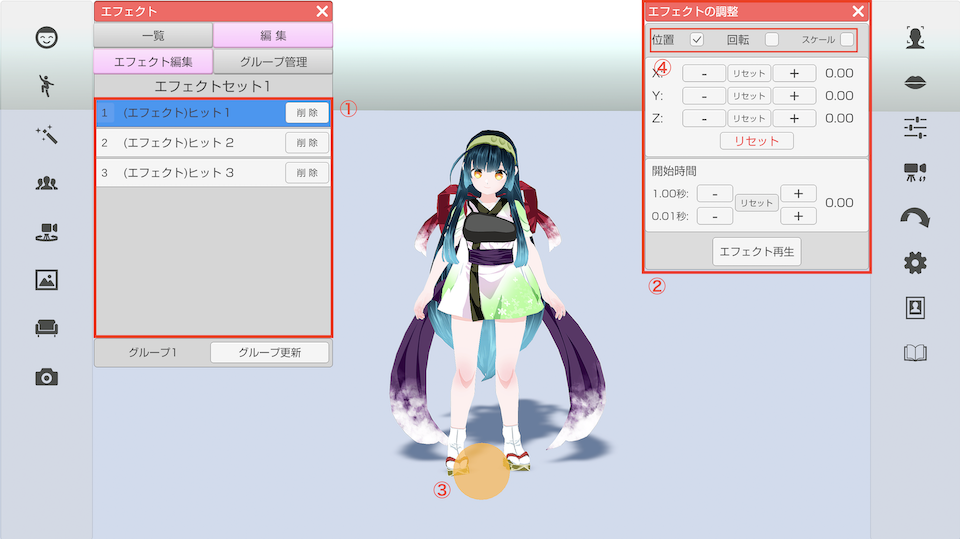
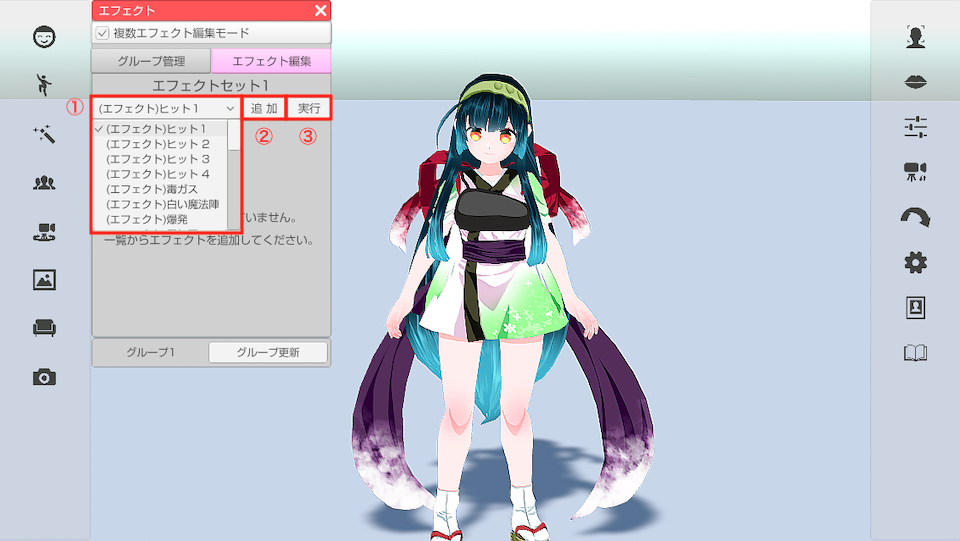
エフェクトウィンドウのドキュメント更新

diff --git a/effect.md b/effect.md
@@ -5,14 +5,14 @@
 
 ### エフェクトのウインドウを表示する
 
->左側メニューの３番目のエフェクトをクリックします。
+>左側メニューの３番目のエフェクトをクリックするとエフェクトウィンドウが表示されます。
 
 ![画像](image/ScreenEffect_1.png "")
 
 
 ### エフェクトを実行する
 
->上部タブ「一覧」内のリストから実行したいエフェクトを選択すると
+>リストから実行したいエフェクトを選択すると
 >画面にエフェクトが表示されます。
 
 ![画像](image/ScreenEffect_2.png "")
@@ -35,10 +35,14 @@
 >グループを作成して複数のエフェクトを組み合わせて表示することができます。
 >また、グループ内の各エフェクトの位置・回転・スケール・開始時間を設定することができます。
 
+### 複数エフェクト編集モード
+
+>上部チェックボックス「複数エフェクト編集モード」をチェックすることで、エフェクトグループの管理、編集を行うことができます。
+
 ### グループを作成する
 
->上部タブ「編集」をクリックします。画像①
->「グループ管理」をクリックするとグループの管理画面が表示されます。画像②
+>上部チェックボックス「複数エフェクト編集モード」をチェックします。画像①
+>上部タブ「グループ管理」をクリックするとグループ管理画面が開きます。画像②
 >「グループ新規作成」をクリックすると新しいグループ『エフェクトセット1』が作成されます。画像③, ④
 >(保存中のグループの数によって初期名称の数字が変わります)
 >グループが作成されると自動的に選択状態(背景青色)となります。
@@ -47,35 +51,41 @@
 
 ### 編集するグループを選択する・削除する
 
->上部タブ「編集」-「グループ管理」をクリックしてグループ管理画面を開きます。
->「グループ管理」内のリスト右側の「編集」をクリックすると該当のグループを選択することができます。(選択されているグループの背景は青色になります) 画像①
->グループが選択されると自動的にエフェクト編集画面が表示され、グループに保存されているエフェクトの一覧が表示されます。
+>上部チェックボックス「複数エフェクト編集モード」をチェックします。
+>上部タブ「グループ管理」をクリックするとグループ管理画面が開きます。
+>表示中のリストをクリックすると該当のグループを選択することができます。(選択されているグループの背景は青色になります) 画像①
 >
->「グループ管理」内のリストの右側の「削除」をクリックすると該当のグループを削除します。画像②
+>リストの右側の「削除」をクリックすると該当のグループを削除します。画像②
 
 ![画像](image/ScreenEffect_5.png "")
 
-### グループにエフェクトを追加する
+### グループを編集する
 
->上部タブ「一覧」をクリックします。
->「一覧」内のリストの右にある「追加」をクリックすることで、グループにエフェクトが追加されます。
->(グループが選択状態の時はそのグループに、未選択状態の時は新しいグループが自動で作成され新しいグループに追加されます)
->エフェクトが追加されると自動的にエフェクト編集画面が表示されます。
+>グループ管理画面でグループを選択した後に上部タブ「エフェクト編集」画像①をクリックすると、エフェクト編集画面に移動して選択中のグループ内のエフェクトが展開されます。画像②
 
 ![画像](image/ScreenEffect_6.png "")
 
+### グループにエフェクトを追加する
+
+>上部チェックボックス「複数エフェクト編集モード」をチェックします。
+>グループ管理画面でグループを選択します。
+>上部タブ「エフェクト編集」をクリックします。グループ編集画面が表示され選択中のグループ内のエフェクトが展開されます。
+>ドロップダウンをクリックするとエフェクトの一覧が表示されます。一覧からエフェクトを選択します。画像①
+>ドロップダウンの右にある「追加」をクリックすることで、選択中のエフェクトがグループに追加されます。画像②
+>ドロップダウンの右にある「実行」をクリックすることで、選択中のエフェクトを実行して確認することができます。画像③
+
+![画像](image/ScreenEffect_7.png "")
+
 ### グループのエフェクトを編集する
 
->
->グループが選択された状態で上部タブ「編集」「エフェクト編集」をクリックしてエフェクト編集画面を表示します。
->「エフェクト編集」内のリストをクリックすると該当のリスト背景が青色に変化し同エフェクトのエフェクトの調整ウィンドウが表示されます。画像①, ②
->(リストがない場合は「一覧」からエフェクトを追加してください)
+>エフェクト編集画面のリストをクリックすると該当のリスト背景が青色に変化し同エフェクトのエフェクトの調整ウィンドウが表示されます。画像①, ②
+>(リストがない場合はドロップダウンからエフェクトを追加してください)
 >
 >また、選択中のエフェクトにオレンジのポイントが表示されます。画像③
 >エフェクトの調整ウィンドウ上部の位置、回転、スケールの調整したいもののチェックボックスにチェックを入れるとそれぞれを調整することが出来ます。画像④
 
 
-![画像](image/ScreenEffect_7.png "")
+![画像](image/ScreenEffect_8.png "")
 
 >下記画像は位置、回転、スケールのウィンドウになります。
 >「+」「-」ボタン（長押し可能）をクリックする事で値を変更します。
@@ -83,7 +93,7 @@
 >下部のリセットボタンをクリックすると全ての軸の値を初期値に戻します。（オブジェクトを読み込んだ時の状態）
 >※スケールについては「All」のリセットで全ての軸を初期値に戻します。
 
-![画像](image/ScreenEffect_8.png "")
+![画像](image/ScreenEffect_9.png "")
 
 >エフェクトの調整ウィンドウの下部に開始時間の設定項目があります。画像①
 >「+」「-」ボタン（長押し可能）をクリックする事で開始時間の値を変更します。
@@ -93,37 +103,37 @@
 >「エフェクト再生」をクリックすると編集中のエフェクトを発生させて確認することができます。画像②
 >編集が完了したら「グループ更新」をクリックして選択中のグループを更新します。画像③
 
-![画像](image/ScreenEffect_9.png "")
+![画像](image/ScreenEffect_10.png "")
 
 ### グループのエフェクトを削除する
 
->グループが選択された状態で上部タブ「編集」「エフェクト編集」をクリックしてエフェクト編集画面を表示します。
->「エフェクト編集」内のリストの右の「削除」をクリックすると該当のエフェクトが削除されます。画像①
+>上部タブ「エフェクト編集」をクリックしてエフェクト編集画面を表示します。
+>リストの右の「削除」をクリックすると該当のエフェクトが削除されます。画像①
 >「グループを更新」をクリックして選択中のグループを更新します。画像②
-
-![画像](image/ScreenEffect_10.png "")
-
-### グループを再生する
-
->上部タブ「編集」「グループ管理」をクリックしてグループ管理画面を表示します。
->「グループ管理」内のリストをクリックするとグループを再生することができます。画像①
 
 ![画像](image/ScreenEffect_11.png "")
 
-### グループの名前を変える
+### グループを再生する
 
->上部タブ「編集」「グループ管理』をクリックしてグループ管理画面を開きます。
->「グループ管理』内のリストから、名前を変更したいグループの「編集」をクリックして選択状態にします。画像①
->ウィンドウ下側にあるグループ名のテキストを変更し、「グループ名変更」をクリックするとグループの名称を変更できます。画像②, ③
+>上部タブ「グループ管理」をクリックしてグループ管理画面を表示します。
+>リストの「実行」をクリックするとグループを再生することができます。画像①
 
 ![画像](image/ScreenEffect_12.png "")
+
+### グループの名前を変える
+
+>上部タブ「グループ管理』をクリックしてグループ管理画面を開きます。
+>リストから、名前を変更したいグループをクリックして選択状態にします。画像①
+>ウィンドウ下側にあるグループ名のテキストを変更し、「グループ名変更」をクリックするとグループの名称を変更できます。画像②, ③
+
+![画像](image/ScreenEffect_13.png "")
 
 ***
 
 
 ## グループのショートカットについて
 
->上部タブ「編集」-「グループ管理」内のグループのリストの上から５つのグループはショートカット機能が使えます。
->上部タブ「一覧」内、または「編集」-「グループ管理」内の「ショートカットを開く」をクリックするとショートカット設定ウインドウが開きます。
+>上部タブ「グループ管理」内のグループのリストの上から５つのグループはショートカット機能が使えます。
+>エフェクトウィンドウ内の「ショートカットを開く」をクリックするとショートカット設定ウインドウが開きます。
 >※3tene右側メニュー上から6番目の「設定」アイコンからも開くことが出来ます。
 >ショートカットリストの中の「エフェクトグループ1」〜「エフェクトグループ5」にショートカットキーを設定することが出来ます。
